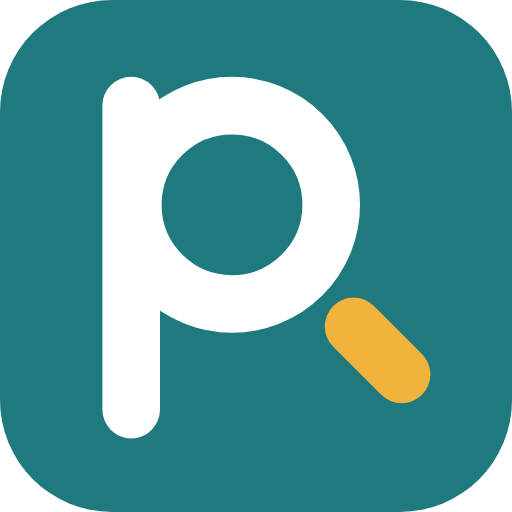
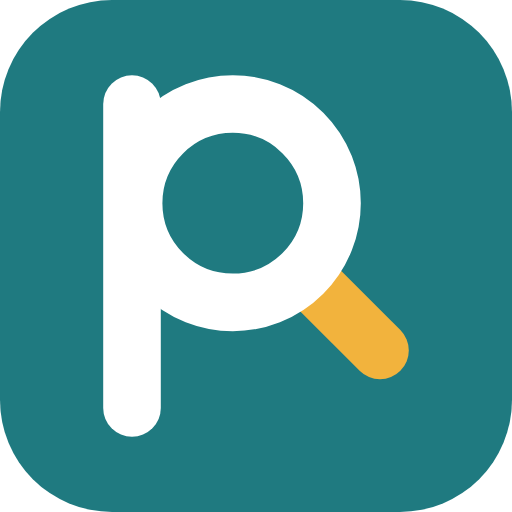
Propario 0.9.1
No blank page in the installed app after an update; the logo's
magnifying-glass handle now starts right at the ring.

diff --git a/scripts/icons.ts b/scripts/icons.ts
@@ -15,14 +15,14 @@ const WHITE = '#ffffff'
 const AMBER = '#f2b33d'
 
 /**
- * The mark on a 32 × 32 grid: stem and ring of the P, then the handle with a clear gap to the
- * ring (its round end stays 1 unit off the ring's edge), all shifted to sit in the middle.
+ * The mark on a 32 × 32 grid: the handle first, then stem and ring of the P on top, so the
+ * handle starts right at the ring's outer edge; all shifted to sit in the middle.
  */
 const glyph = (p: string, handle: string) =>
-  `<g transform="translate(-2.3 -0.4)">` +
+  `<g transform="translate(-2.25 -0.5)">` +
+  `<path d="M21.4 17.8l4.6 4.6" stroke="${handle}" stroke-width="3.6" stroke-linecap="round"/>` +
   `<path d="M10.5 26V7" stroke="${p}" stroke-width="3.6" stroke-linecap="round"/>` +
   `<circle cx="16.8" cy="13.2" r="6.2" fill="none" stroke="${p}" stroke-width="3.6"/>` +
-  `<path d="M24.4 20.8l3 3" stroke="${handle}" stroke-width="3.6" stroke-linecap="round"/>` +
   `</g>`
 
 const svg = (body: string) => `<svg xmlns="http://www.w3.org/2000/svg" viewBox="0 0 32 32">${body}</svg>`

diff --git a/src/releases.ts b/src/releases.ts
@@ -11,6 +11,19 @@ export interface Release {
 
 export const RELEASES: Release[] = [
   {
+    version: '0.9.1',
+    notes: {
+      en: [
+        'No more blank page in the installed app after an update: it reloads by itself.',
+        'The logo’s magnifying glass now has its handle right at the ring.',
+      ],
+      de: [
+        'Kein weißer Bildschirm mehr in der installierten App nach einem Update: Sie lädt sich selbst neu.',
+        'Beim Logo sitzt der Lupengriff jetzt direkt am Ring.',
+      ],
+    },
+  },
+  {
     version: '0.9.0',
     notes: {
       en: [

diff --git a/CHANGELOG.md b/CHANGELOG.md
@@ -6,6 +6,14 @@ for fixes. See "Versions and releases" in the README.
 
 ## Unreleased
 
+## 0.9.1 — 2026-11-19
+
+- Changed: in the logo, the magnifying glass's handle now starts right at the ring.
+- Fixed: the installed app on Android could show a blank page after an update – the old
+  version kept running and failed to load parts that were gone. Coming back to the app, it now
+  reloads when a newer version runs; if loading a part fails anyway, it reloads once; anything
+  else that breaks shows a page with "Reload" instead of nothing.
+
 ## 0.9.0 — 2026-11-19
 
 - **Add or update products** (⋯ in a comparison): paste a table – your AI's answer, rows copied

diff --git a/docs/brand.md b/docs/brand.md
@@ -50,7 +50,7 @@ apart in amber – the find.
 
 - One drawing for everything: [`scripts/icons.ts`](../scripts/icons.ts) writes the favicon
   (also shown in the top bar) and all app icons. Change the logo there, never by hand.
-- Always on its petrol tile; the P is white, the handle amber, with a clear gap to the ring.
+- Always on its petrol tile; the P is white, the handle amber, starting right at the ring.
 - Do not recolour, outline, rotate, add effects or put text inside the tile. Minimum size 16 px.
 - Next to the name the tile stands left of "Propario", set in the display face.
 
